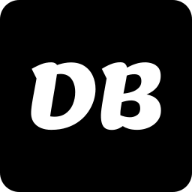
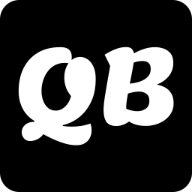
update naming

Changed region(s): [[0.0938, 0.2188, 0.5, 0.7812], [0.5, 0.2188, 0.9062, 0.6875]]

diff --git a/src/components/MountFileSystem.vue b/src/components/MountFileSystem.vue
@@ -31,7 +31,7 @@ const $meta = useMetaStore();
         </div>
         <p>Run one of these commands in the folder you want to make available. <span class="font-semibold">Check which port the server starts on!</span></p>
         <p>Once running, you can point DuckDB to the served files:</p>
-        <pre class="select-all text-sm">select * from read_csv_auto("http://localhost:8080");</pre>
+        <pre class="select-all text-sm">select * from read_csv_auto("http://localhost:8080/your_file.csv");</pre>
       </div>
       <DialogFooter>
         <Button data-umami-event="ok-mount-file-system" @click="$meta.showMountFileSystem = false">

diff --git a/src/App.vue b/src/App.vue
@@ -56,7 +56,7 @@ watch([meta, shift, e], (v) => {
 <template>
   <div class="w-full h-full flex flex-col relative">
     <header class="flex items-center p-3 space-x-4 border-b-[1px] border-solid border-slate-200">
-      <h1 class="text-xl">DuckBook</h1>
+      <h1 class="text-xl">QuackBook</h1>
       <div class="h-[50%] w-[1px] mx-5 bg-gray-500"></div>
       <div class="flex items-center space-x-4">
         <Button size="xs" class="text-xs space-x-1 cursor-pointer" @click="openMenu" data-umami-event="command-menu">

diff --git a/index.html b/index.html
@@ -9,7 +9,7 @@
     <link rel="manifest" href="/site.webmanifest">
     <meta name="viewport" content="width=device-width, initial-scale=1.0"/>
         <script defer src="https://analytics.cloudcrafts.club/script.js" data-website-id="918cc775-65fc-418c-be8c-8597cdd1a450"></script>
-    <title>DuckBook 🦆 📔</title>
+    <title>QuackBook 🦆 📔</title>
 </head>
 
 <body>

diff --git a/README.md b/README.md
@@ -1,5 +1,44 @@
-# Vue 3 + TypeScript + Vite
+> work in progress.
 
-This template should help get you started developing with Vue 3 and TypeScript in Vite. The template uses Vue 3 `<script setup>` SFCs, check out the [script setup docs](https://v3.vuejs.org/api/sfc-script-setup.html#sfc-script-setup) to learn more.
 
-Learn more about the recommended Project Setup and IDE Support in the [Vue Docs TypeScript Guide](https://vuejs.org/guide/typescript/overview.html#project-setup).
+Hi there.
+
+The internet probably didn’t need another DuckDB-in-the-browser... There are already some great examples out there. I’ve checked them, and they inspired me. I wanted to build one myself. At first, it seemed challenging, but I managed to get through the hurdles quickly and now have a working... something.
+
+Again. Here I am. 
+
+### What's QuackBook?
+It’s whatever DuckDB can do, plus some additional graphing and markdown. In the end, it can be whatever you want:
+
+- Data analysis
+- Teaching, by combining it with markdown
+- Learning from others’ work
+- Building charts for your data
+
+### Storing projects
+
+You may have already figured out that this page is editable. All the data came from the link, but now you have a personal copy. Whatever you do to this copy will be saved up to a point.
+
+This represents your activeProject. You can delete, add, edit, reorder, or even refresh—no problem. But if you open another project, you will lose this data. If that’s okay with you, great. But if you want to keep this project for later, you’ll need to save it.
+
+Use "the prompt" and then hit save project. Now you can safely open another project, knowing that this one is stored.
+
+
+
+### Sharing projects
+
+Use **"the prompt"** and hit _share project_. You'll get a huge url which contains almost all the details of the project. All the cells will be there.
+
+## NO. There is no server storage.  YOU ACTUALLY OWN YOUR DATA.
+
+Everything is kept in your browser storage. If you switch browsers or clear your local storage... you will lose everything.
+
+Would you find it useful to have proper storage for your projects? like with an account and all the bells and whistles? let me know
+
+### Shortcuts
+
+Meta is either CTRL (windows/linux) or CMD (macos)
+
+- META + Shift + E: show database schema (tables and structure of your tableS)
+- META + K: opens **"the prompt"**
+
